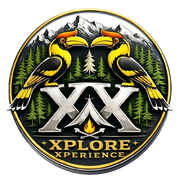
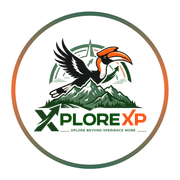
update2

diff --git a/index.html b/index.html
@@ -6,9 +6,9 @@
   <meta charset="UTF-8" />
   <meta name="viewport" content="width=device-width, initial-scale=1.0" />
   <meta name="theme-color" content="#1a1a2e" />
-  <link rel="icon" type="image/png" href="/favicon-32x32.png" sizes="32x32" />
-  <link rel="icon" type="image/png" href="/favicon-48x48.png" sizes="48x48" />
-  <link rel="apple-touch-icon" href="/apple-touch-icon.png" />
+  <link rel="icon" type="image/png" href="/logo2.png" sizes="32x32" />
+  <link rel="icon" type="image/png" href="/logo2.png" sizes="48x48" />
+  <link rel="apple-touch-icon" href="/logo2.png" />
   <link rel="manifest" href="/site.webmanifest" />
 
   <!-- SEO Meta Tags -->
@@ -45,7 +45,7 @@
     "name": "Xplore Xperience",
     "alternateName": "Xplore Xp",
     "url": "https://xplorexp.in",
-    "logo": "https://xplorexp.in/logo.png",
+    "logo": "https://xplorexp.in/logo2.png",
     "description": "Premium travel agency specializing in Northeast India tour packages with verified guides and trusted drivers.",
     "address": {
       "@type": "PostalAddress",

diff --git a/generate-favicons.js b/generate-favicons.js
@@ -2,12 +2,21 @@ import sharp from 'sharp';
 
 async function generateFavicons() {
     try {
-        console.log("Generating favicons from logo.png...");
-        await sharp('public/image/logo.png')
+        console.log("Generating optimized favicons from logo2.png...");
+        const source = 'public/image/logo2.png';
+
+        // Standard Favicon 32x32
+        await sharp(source)
             .resize(32, 32)
             .toFile('public/favicon-32x32.png');
 
-        await sharp('public/image/logo.png')
+        // Recommended for Google Search Results (multiple of 48)
+        await sharp(source)
+            .resize(48, 48)
+            .toFile('public/favicon-48x48.png');
+
+        // Apple Touch Icon
+        await sharp(source)
             .resize(180, 180)
             .toFile('public/apple-touch-icon.png');
 

diff --git a/src/component/BikeRentalSection.jsx b/src/component/BikeRentalSection.jsx
@@ -16,10 +16,10 @@ const bikeData = [
   },
   {
     id: 2,
-    name: "HIMALAYAN 450",
+    name: "HIMALAYAN 411",
     mileage: "30 kmpl",
     price: "₹1500 / Day",
-    engine: "450 cc",
+    engine: "411 cc",
     description: "Built for all roads and no roads. The Himalayan combines versatility and comfort for the ultimate off-road experience.",
     image: "/image/himalayan.png",
     logo: "/image/relogo.png"
